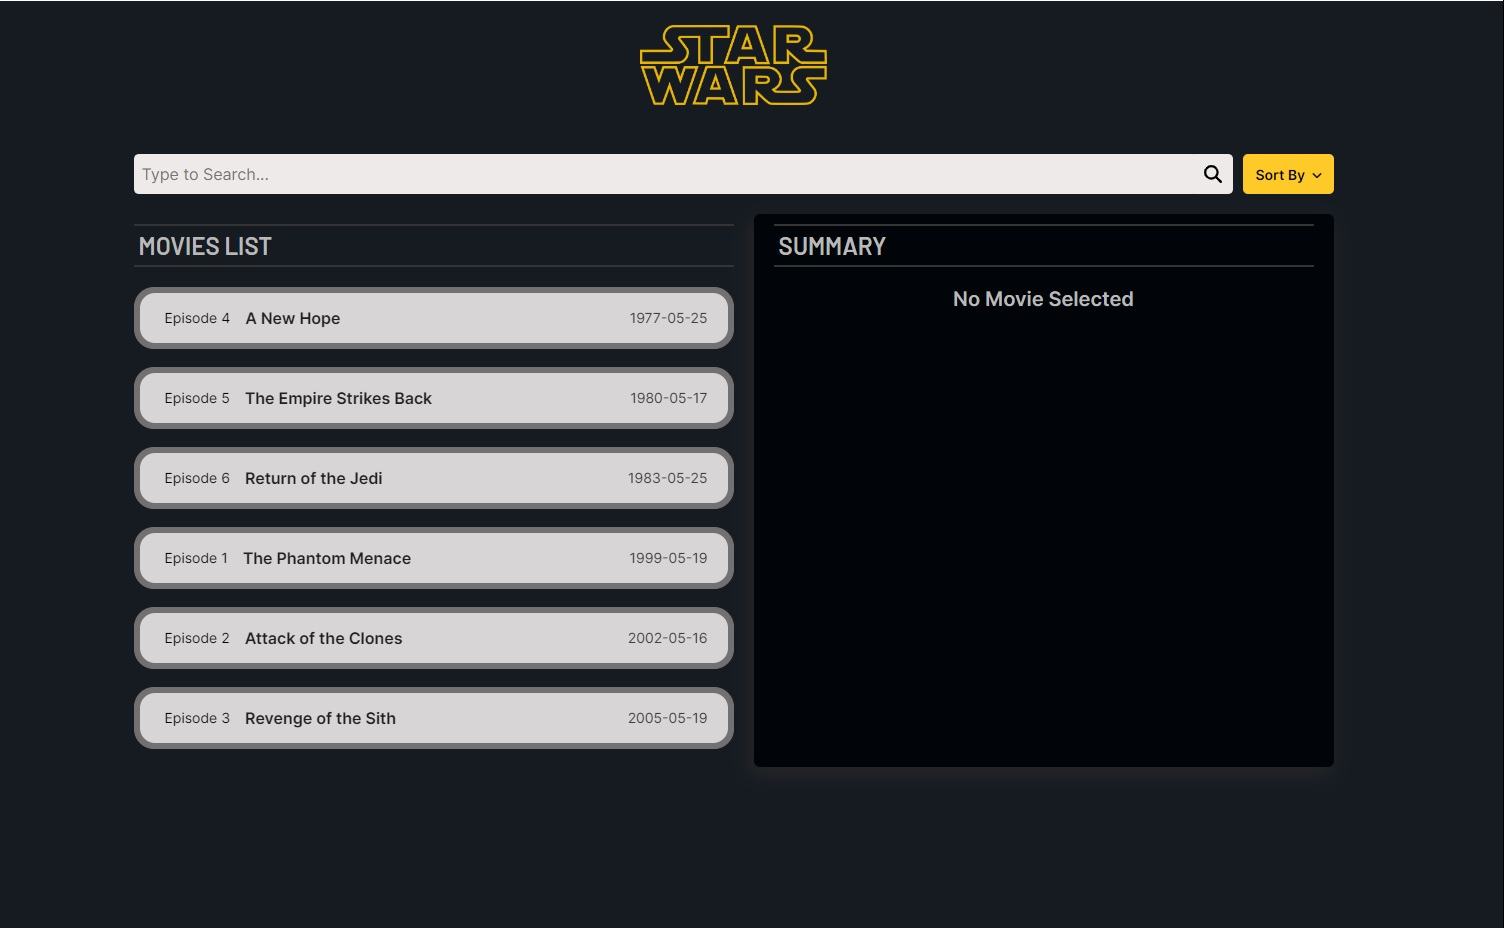
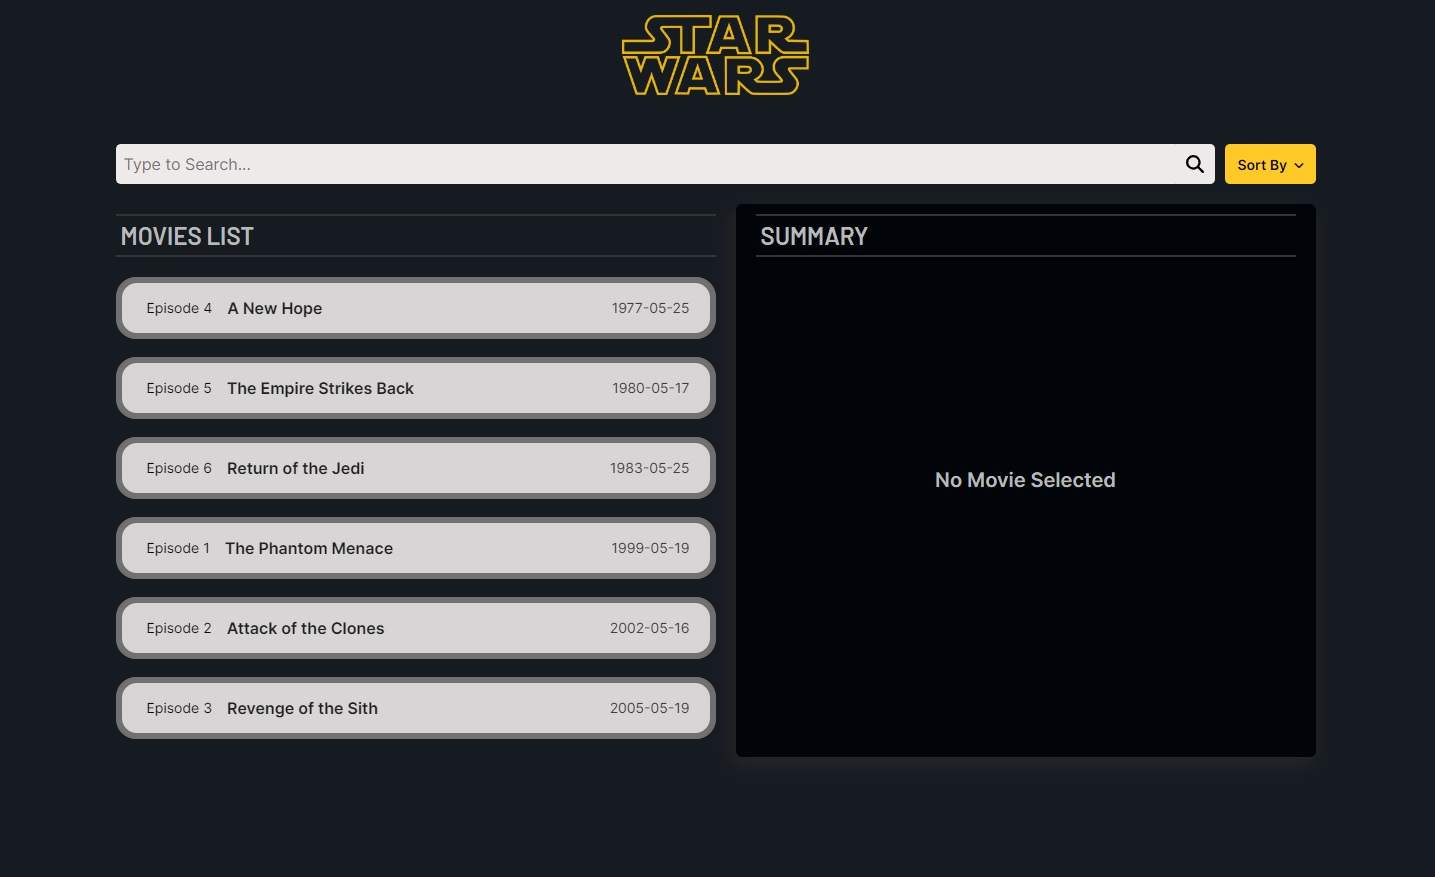
centred default message

Changed region(s): [[0.0613, 0.1539, 0.9199, 0.862], [0.4293, 0.0, 0.5826, 0.1231], [0.6439, 0.5234, 0.7972, 0.5542]]

diff --git a/src/pages/Movies/Summary/summary.css b/src/pages/Movies/Summary/summary.css
@@ -4,8 +4,9 @@
   color: var(--light-grey);
   background-color: var(--sec-black);
   padding: 10px 20px 20px 20px;
-  box-shadow:-3px 7px 20px 0px #292727;
+  box-shadow: -3px 7px 20px 0px #292727;
   min-height: 350px;
+  position: relative;
 }
 
 .summary-container p {
@@ -22,16 +23,21 @@
   font-weight: 400;
 }
 
-.default-message{
+.default-message {
   font-size: 20px;
-  font-weight:600;
+  font-weight: 600;
+  position: absolute;
+  top: 50%;
+  left: 50%;
+  transform: translate(-50%, -50%);
+  margin: 0;
 }
 
-.summary-container h3{
+.summary-container h3 {
   font-size: 24px;
 }
 
-@media screen and (max-width:550px){
+@media screen and (max-width: 550px) {
   .summary-container {
     margin: auto;
     width: 90%;
